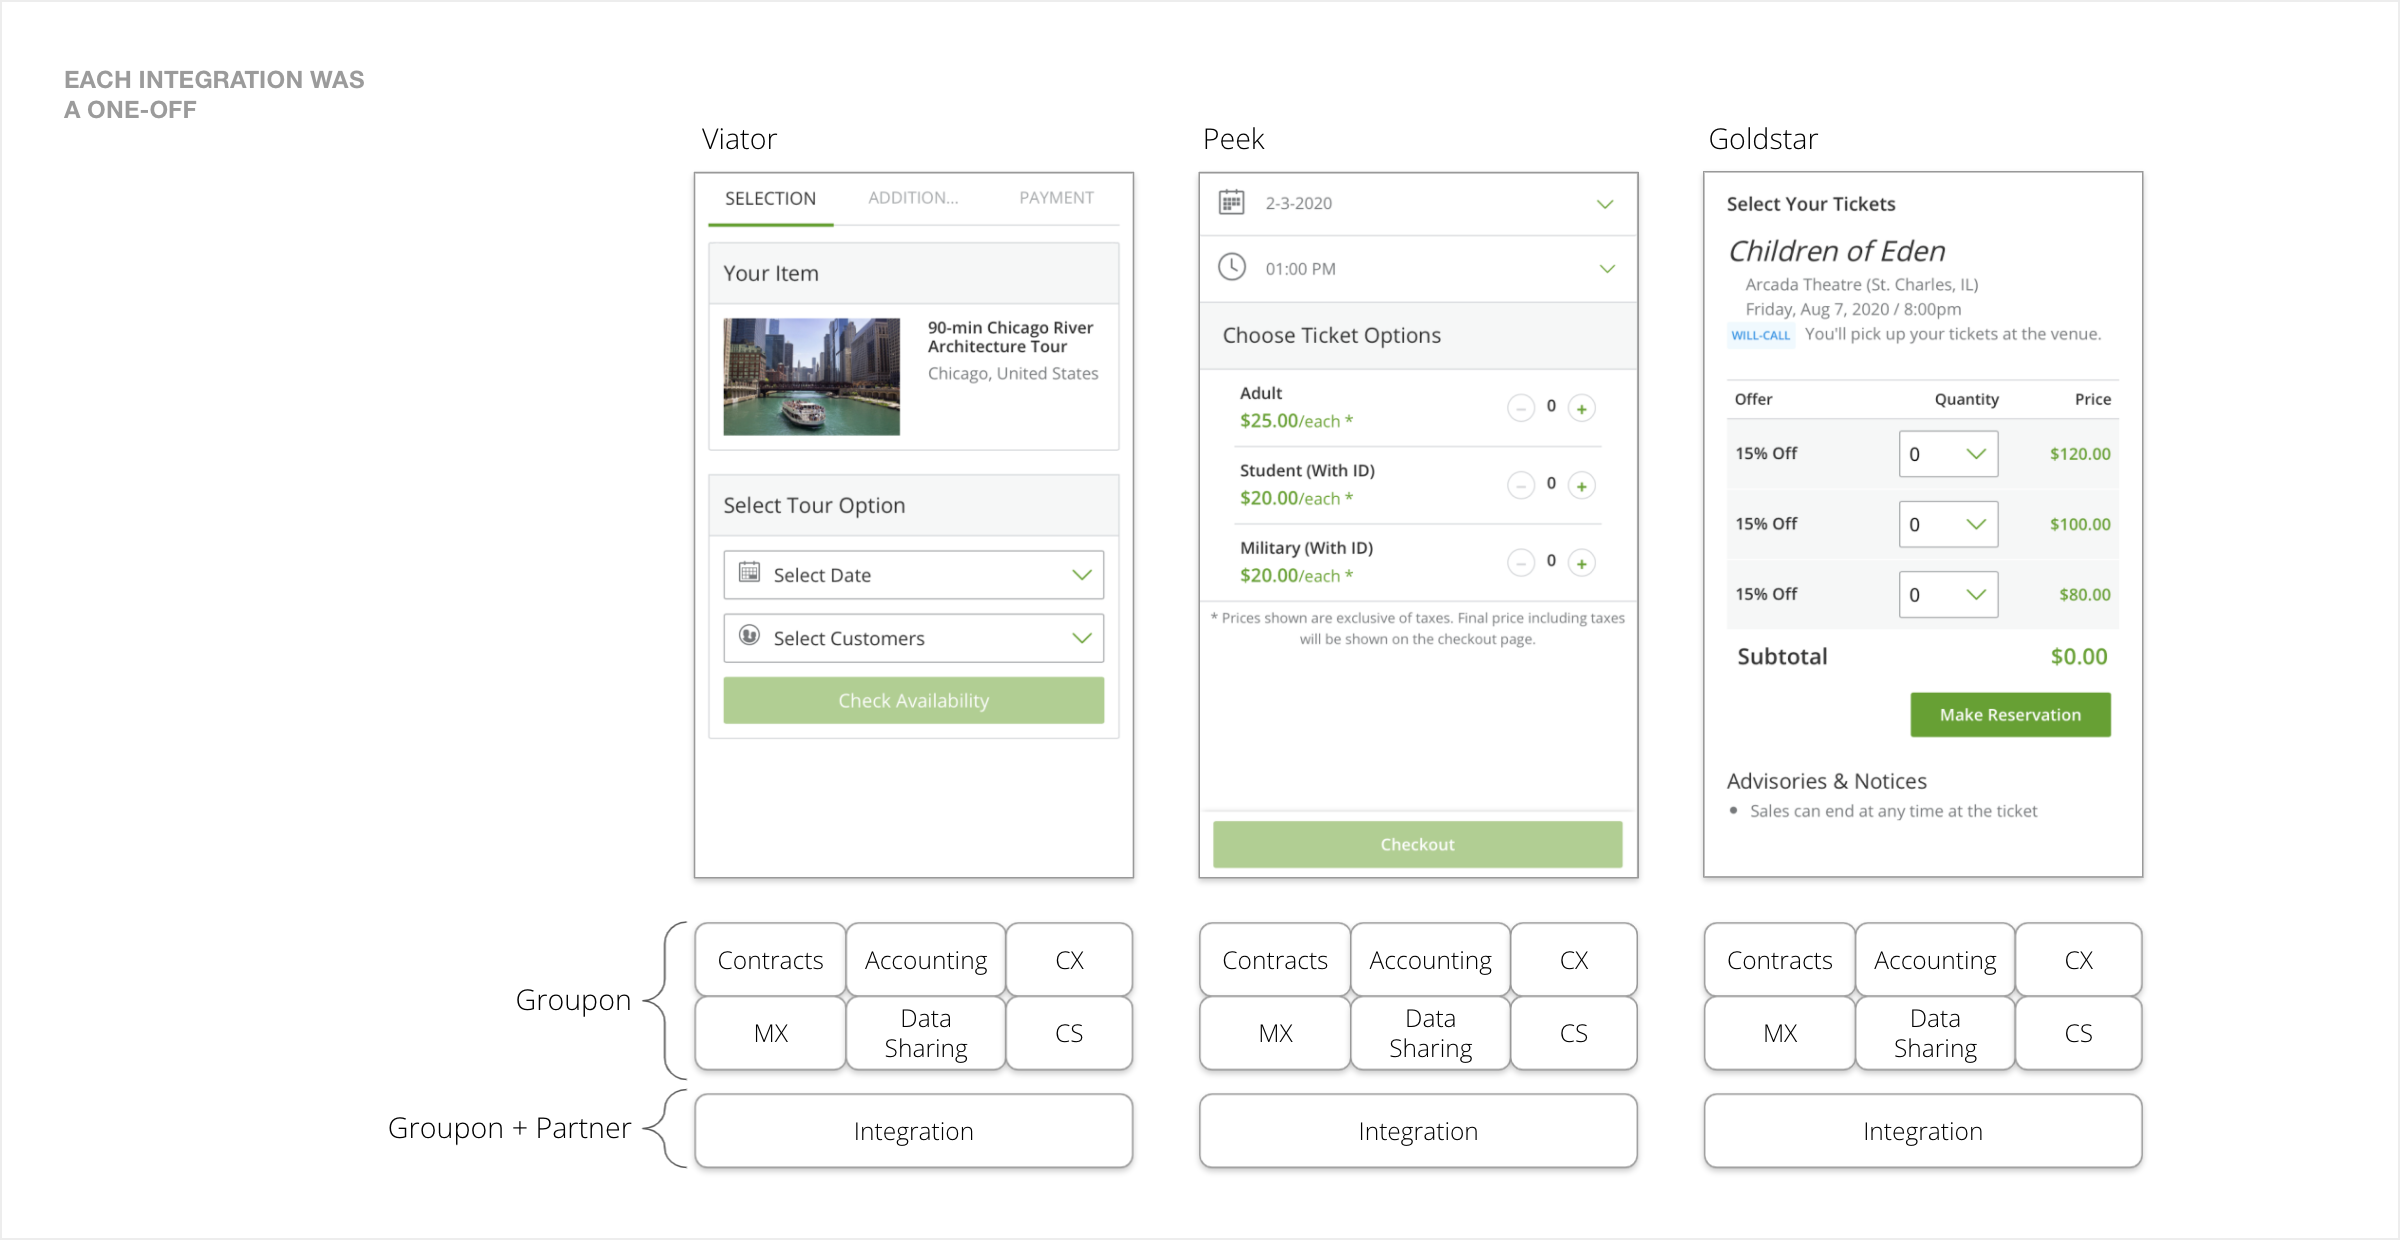
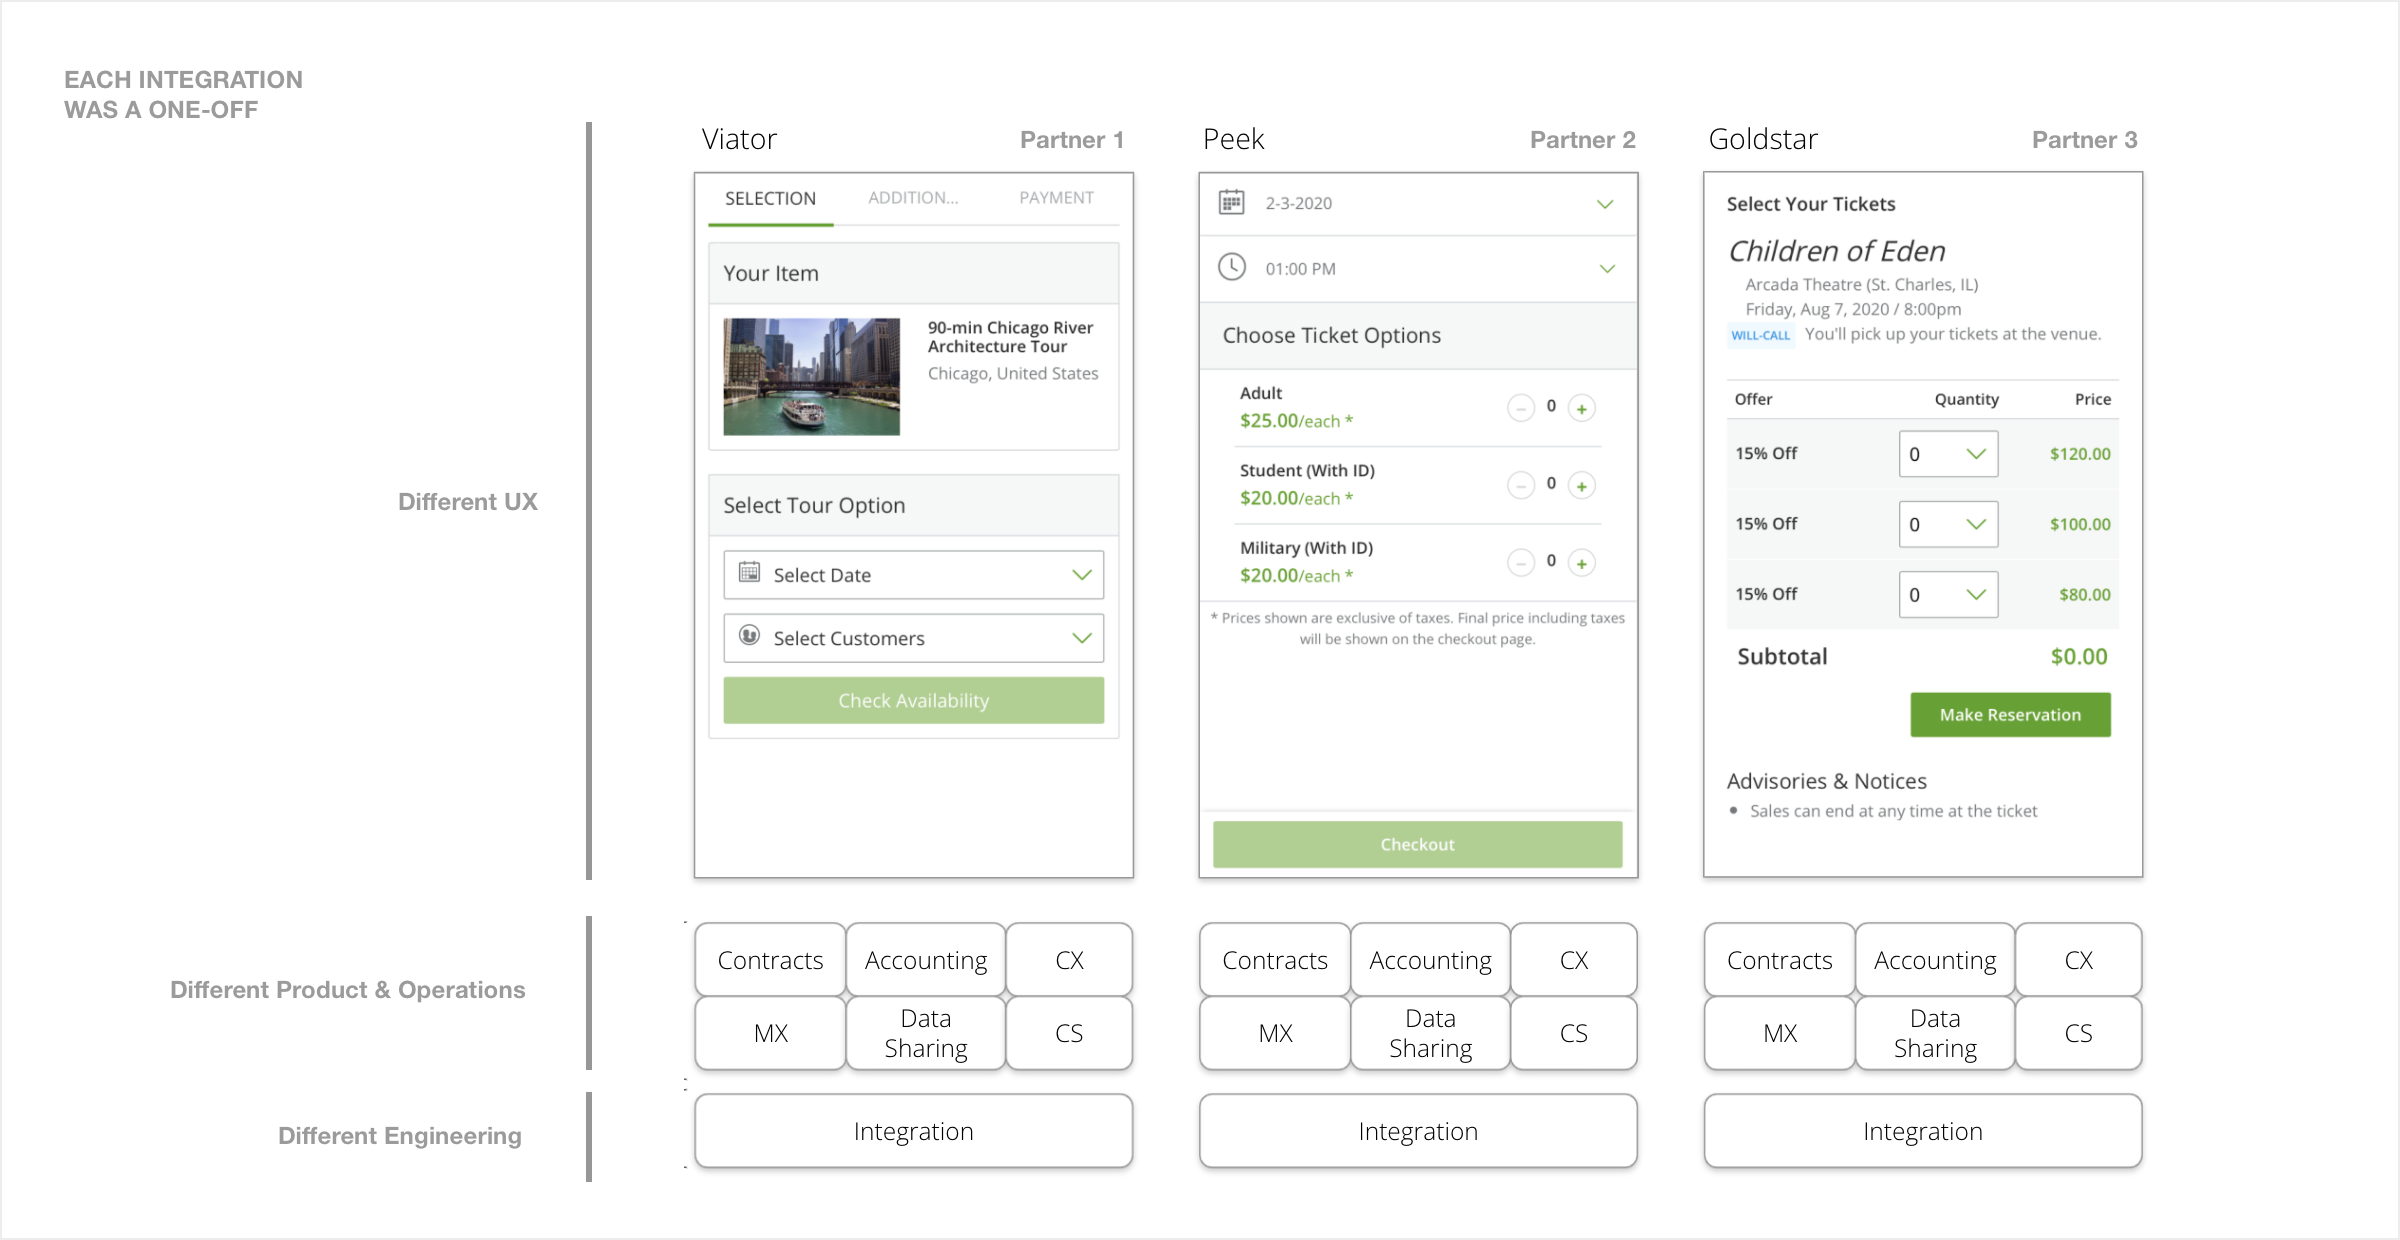
updates
updates

diff --git a/html/g_booking.html b/html/g_booking.html
@@ -266,36 +266,23 @@
           </figure>
         </div>
       </div>
-
-
+      <div class="columns">
+        <div class="column is-6 is-offset-3">
+          <p class="thirdtitle">Here was an another example of Universal Orlando's booking experience translated into this model. 
+          </p>
+        </div>
+      </div>
+      <div class="columns">
+        <div class="column is-10 is-offset-1">
+         <figure class="image">
+          <img src="../images/g_booking_partners.png" alt=""></img>
+          </figure>
+        </div>
+      </div>
+   
     <div class="columns">
       <div class="column is-6 is-offset-3">
-        <p class="thirdtitle">To validate, I retro-fitted a large number of existing partner deals in this model.
-        </p>
-      </div>
-    </div>
-    <div class="columns">
-      <div class="column is-10 is-offset-1">
-       <figure class="image">
-        <img src="../images/g_booking_partners.png" alt=""></img>
-        </figure>
-      </div>
-    </div>
-    <div class="columns">
-      <div class="column is-6 is-offset-3">
-        <p class="thirdtitle">Here was an example of Universal Orlando park booking experience translated into this standard booking flow on Groupon.
-        </p>
-      </div>
-    </div>
-    <div class="columns">
-      <div class="column is-6 is-offset-3">
-        <p class="thirdtitle">At the same time, the engineering team was working on an API for partners do self-service integrations.
-        </p>
-      </div>
-    </div>
-    <div class="columns">
-      <div class="column is-6 is-offset-3">
-        <p class="thirdtitle">The API design and the booking UX went hand in hand. The availability attributes were the "steps" in the booking flow. The selection type of single or multiple corresponded to whether that step was a single choice or multiple choice. "writeups", as text strings that could be customized, corresponded to the titles of the steps. 
+        <p class="thirdtitle">At the same time, the engineering team was working on an API for partners do self-service integrations.  
         </p>
       </div>
     </div>
@@ -307,6 +294,13 @@
       </div>
     </div>
     <div class="columns">
+      <div class="column is-6 is-offset-3">
+        <p class="thirdtitle">I worked closely with them to ensure that the API design and the booking UX went hand in hand.
+        </p>
+      </div>
+    </div>
+
+    <div class="columns">
       <div class="column is-6 is-offset-one-quarter">
         <p class="title">Dynamic UI Display 
         </p>        
@@ -315,13 +309,36 @@
  
     <div class="columns">
       <div class="column is-6 is-offset-3">
-        <p class="thirdtitle"> Typically when we designed an interface, we would make a human decision of which UI element to use based on types of data we needed to accommodate. However, in our case, we wouldn't know what types of data we'd get.
+        <p class="thirdtitle"> Now that the steps were flexible, what about within each step? 
+        </p>
+        <p class="thirdtitle"> Typically when we designed an interface, we would make a human design decision of which UI element to use based on types of data we needed to accommodate. However, in our case, we wouldn't know what types of data we'd get.
         </p>
       </div>
     </div>
     <div class="columns">
+      <div class="column is-10 is-offset-1">
+       <figure class="image">
+        <img src="../images/g_booking_logic_explain.png" alt=""></img>
+        </figure>
+      </div>
+    </div>
+    <div class="columns">
       <div class="column is-6 is-offset-3">
-        <p class="thirdtitle">The solution was to analyze the data structure & content at run time and render UI elements dynamically based on a set of rules.
+        <p class="thirdtitle">So instead, we allowed machines to make design decisions. At run-time, we would analyze the data structure & content.  Then UI elements would render dynamically based on a set of rules.
+        </p>
+      </div>
+    </div>
+   
+    <div class="columns">
+      <div class="column is-10 is-offset-1">
+       <figure class="image">
+        <img src="../images/g_booking_logic_ttdui.png" alt=""></img>
+        </figure>
+      </div>
+    </div>
+    <div class="columns">
+      <div class="column is-6 is-offset-3">
+        <p class="thirdtitle">Here was another example.
         </p>
       </div>
     </div>
@@ -332,16 +349,10 @@
         </figure>
       </div>
     </div>
-    <div class="columns">
-      <div class="column is-10 is-offset-1">
-       <figure class="image">
-        <img src="../images/g_booking_logic_ttdui.png" alt=""></img>
-        </figure>
-      </div>
-    </div>
+ 
     <div class="columns">
       <div class="column is-6 is-offset-3">
-        <p class="thirdtitle">To support this, I designed a UI component library.
+        <p class="thirdtitle">To support this system, I designed a UI component library.
         </p>
       </div>
     </div>
@@ -353,72 +364,6 @@
     </div>
   </div>
 
-
- 
-  
-<!-- 
-
-    <div class="columns">
-      <div class="column is-6 is-offset-one-quarter">
-        <p class="title">How do we acquire new merchants from partners? 
-        </p>        
-      </div>
-    </div>
-    <div class="columns">
-      <div class="column is-6 is-offset-3">
-        <p class="smalllabel">PRODUCT MARKET FIT</p>
-        <p class="thirdtitle">We don't know if merchants who are using our partner platform wants to be on Groupon, and if they do, what are their hopes and dreams and what are their worst nightmares. To find the product market fit, we started by doing user research. 
-        </p>
-      </div>
-    </div>
-
-    <div class="columns">
-      <div class="column is-10 is-offset-1">
-       <figure class="image">
-        <img src="../images/g_booking_uer.png" alt=""></img>
-        </figure>
-      </div>
-    </div>
-    <div class="columns">
-      <div class="column is-6 is-offset-3">
-        <p class="smalllabel">STARTING FROM SOMEWHERE</p>
-        <p class="thirdtitle">As a team, we needed to figure out what we were going to test and what questions we wanted to ask users. As a thought-starter, I ran a session with my product manager to identify the value propositions we should offer new merchants in order to entice them to become Groupon merchants.
-        </p>
-      </div>
-    </div>
-    <div class="columns">
-      <div class="column is-6 is-offset-3">
-        <p class="thirdtitle">To prepare for this workshop so we weren't starting from blank. I had previously asked a junior designer to conduct a competitive research of similar experiences with a focus on copywriting. 
-        </p>
-      </div>
-    </div>
-    <div class="columns">
-      <div class="column is-10 is-offset-1">
-       <figure class="image">
-        <img src="../images/g_booking_competitve.png" alt=""></img>
-        </figure>
-      </div>
-    </div>
-    <div class="columns">
-      <div class="column is-6 is-offset-3">
-        <p class="smalllabel">USER RESEARCH</p>
-        <p class="thirdtitle">The output of the value prop working session led to materials I could use to continue our conversions with user researchers and content strategists, to prepare for a user research study.
-        </p>
-      </div>
-    </div>
-    <div class="columns">
-      <div class="column is-10 is-offset-1">
-       <figure class="image">
-        <img src="../images/g_booking_uer02.png" alt=""></img>
-        </figure>
-      </div>
-    </div>
-    <div class="columns">
-      <div class="column is-6 is-offset-3">
-        <p class="thirdtitle">On the one hand, I worked with our content strategist to refine the written messaging to best represent the benefits of our program, contextualized in a landing page and a marketing email. On the other hand, I proposed, to figure out what value propositions work the best, we could consider doing a conjoint analysis, a statistical marketing research technique that helps businesses measure what their consumers value most about their products and services.
-        </p>
-      </div>
-    </div> -->
 
     <!--  CHALLENGE - INNOVATE WITHIN AN EXISTING SYSTEM -->
 
@@ -432,9 +377,7 @@
     <div class="columns">
       <div class="column is-6 is-offset-one-quarter">    
         <p class="smalllabel">THE CONSTRAINTS</p> 
-        <p class="thirdtitle">The current merchant platform was deal-centric - when merchants were onboarded, the goal was to keep them laser-focused on creating a discounted deal campaign. A salon, for example, would asked to create a deep discounted women’s hair cut introductory offer. Even if a merchant was bookable, there was no way to add full catalog of services. How could we change that? </p>
-        <p class="thirdtitle">We needed to prove the value of new booking features  within our current platform, while having a vision for the future.
-        </p>
+        <p class="thirdtitle">The current merchant platform was deal-centric.  When merchants joined Groupon, the first thing to do was to create a discounted deal campaign. Some merchants might already offer booking but we didn't offer that option. How would we insert booking in the merchant world? </p>
       </div>
     </div>
     <div class="columns">
@@ -447,11 +390,11 @@
     <div class="columns">
       <div class="column is-6 is-offset-one-quarter"> 
 
-        <p class="thirdtitle">To achieve this, extensive cross-team efforts had to be carried out across product, engineering and design level. This means lots of people to work with and lots of dependencies.
+        <p class="thirdtitle">This required extensive cross-team efforts across product, engineering, and design.
         </p> 
         <br>
         <p class="smalllabel">THE KNOWN UKNOWNS</p>  
-        <p class="thirdtitle">There was the "known unknown" - we didn’t know how the features would work/where they'd fit in, but we knew who may have the answers. We just needed to invite them to the table and help us fill in the gaps.
+        <p class="thirdtitle">There was the "known unknown". We didn’t know how the features would work & where they would fit in but we knew who may have the answers. We needed to invite them to the table and help us fill in the gaps.
         </p>
       
       </div>
@@ -465,8 +408,8 @@
     </div>
     <div class="columns">
       <div class="column is-6 is-offset-one-quarter">
-        <p class="thirdtitle">To do that, I put a service journey map in front of our stakeholders. </p>
-        <p class="thirdtitle">The map demonstrated tasks of each human roles such as merchants themselves, Groupon operational managers, partner operational managers, customer service agents as well as tasks that were automated. It shoed touch points across the consumer experiences, sales, merchant business management, merchant product and deal management and Groupon internal operational tools. It captured all the pieces that needed to be considered, designed and built for the whole thing to work cohesively.</p>
+        <p class="thirdtitle">I created service journey maps to facilitate these conversations.
+          The map, for example, demonstrated the flow of tasks needed to onboard a new bookable merchant. The roles included merchants, Groupon operational managers, partner operational managers, customer service agents and automatic bots. The touch points included consumer experiences, sales, merchant business management, merchant deal management and Groupon internal operational tools. Output of these discovery conversations then informed what we needed to build. </p>
       </div>
     </div>
       
@@ -485,8 +428,7 @@
         </figure>
       </div>
     </div>
-
-
+ 
   
       <!--   portfolio piece end-->
       <!-- footer -->
